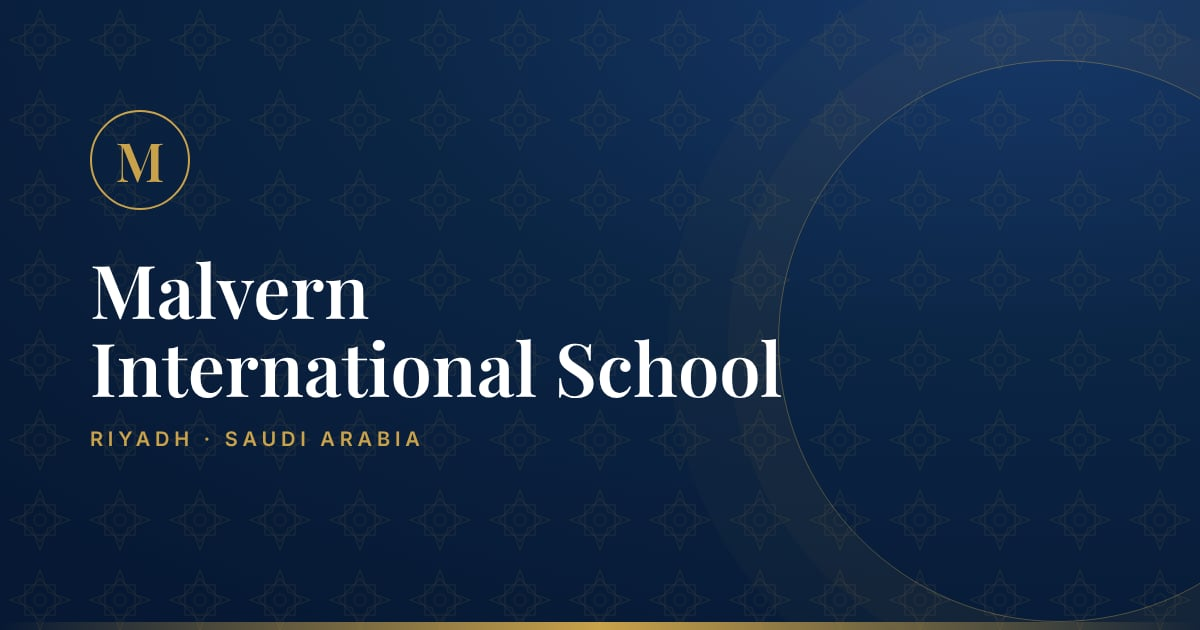
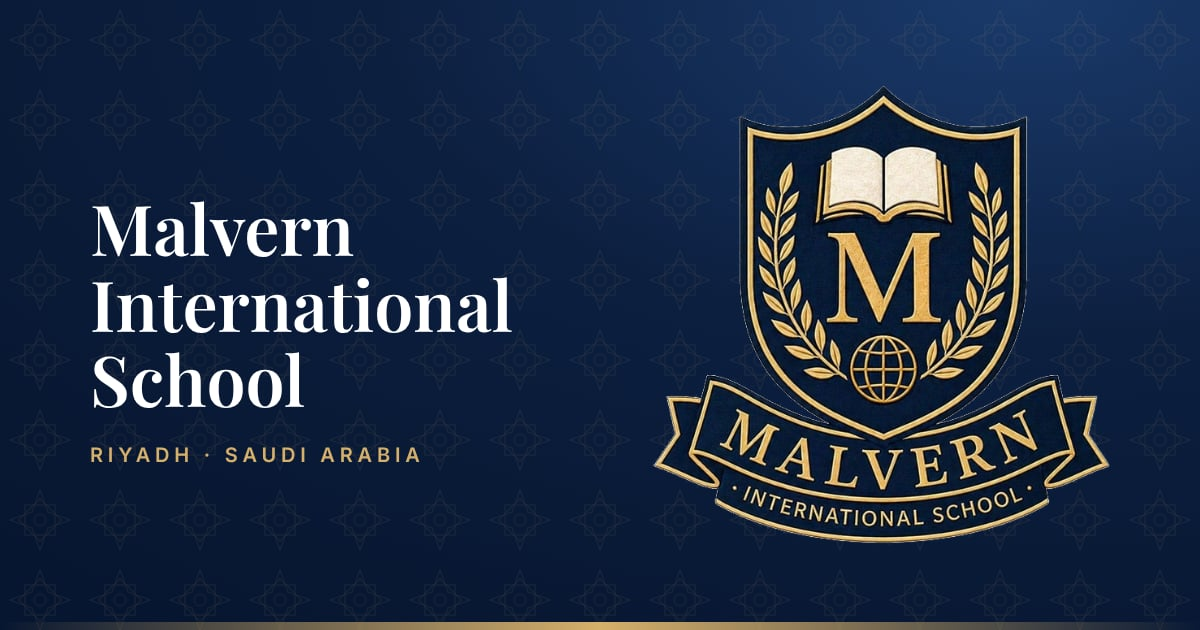
Add school crest, matching colours, contact details, address, vision, mission and beliefs
Claude-Session: https://claude.ai/code/session_0121dwiqmaTXYgpTpQHRfV6E

Changed region(s): [[0.0617, 0.1206, 0.925, 0.8746], [0.37, 0.9651, 0.6167, 1.0], [0.0925, 0.1508, 0.1233, 0.181]]

diff --git a/src/styles/global.css b/src/styles/global.css
@@ -64,7 +64,7 @@ a:hover { color: var(--c-accent-text); }
 .btn { display: inline-flex; align-items: center; justify-content: center; gap: .5rem; min-block-size: 48px; padding: .8rem 1.6rem; border-radius: 999px; font: 600 1rem/1.2 var(--font-body); text-decoration: none; border: 1.5px solid transparent; cursor: pointer; transition: background .2s, color .2s, border-color .2s, transform .2s; white-space: nowrap; }
 .btn:hover { transform: translateY(-1px); }
 .btn--gold { background: var(--c-accent); color: var(--c-primary-deep); }
-.btn--gold:hover { background: #d8b45e; color: var(--c-primary-deep); }
+.btn--gold:hover { background: var(--c-accent-hover); color: var(--c-primary-deep); }
 .btn--navy { background: var(--c-primary); color: #fff; }
 .btn--navy:hover { background: var(--c-primary-deep); color: #fff; }
 .btn--outline { border-color: currentColor; color: var(--c-primary); background: transparent; }

diff --git a/CONTENT-NEEDED.md b/CONTENT-NEEDED.md
@@ -8,23 +8,24 @@ Tick each item when done. Send the content in any form (Word, email, WhatsApp) a
 ---
 
 ## Every page (contact details — `content/settings.yaml`)
-- [ ] Phone number
-- [ ] Admissions email address
-- [ ] WhatsApp number (for the green floating button and the enquiry form)
-- [ ] Full school address
-- [ ] Working hours (e.g. Sunday–Thursday, 7:00 am – 3:00 pm)
-- [ ] Google Maps embed link and share link
-- [ ] Social media links (Instagram, X, LinkedIn, YouTube) — optional
-- [ ] **Logo** — upload to the `brand` folder as `logo.svg` or `logo.png` (and `logo-white.png` for dark backgrounds, if you have one)
-- [ ] Official brand colours (from the logo guidelines) — I will update `theme.json`
+- [x] Phone number
+- [x] Admissions email address
+- [x] WhatsApp number (for the green floating button and the enquiry form)
+- [x] Full school address
+- [x] Working hours (e.g. Sunday–Thursday, 7:00 am – 3:00 pm)
+- [ ] Check the map pin on the Contact page is on the school (map uses the National Address; send the Google Maps "Share" link if the pin is off)
+- [x] YouTube channel linked
+- [ ] Other social media links (Instagram, X, LinkedIn) — optional
+- [x] Logo (crest) added; colours matched to the crest
+- [ ] Optional: the logo as a high-resolution or vector file (SVG/PDF) from the designer, for extra sharpness
 
 ## Home (`content/en/home.yaml`)
 - [ ] Approve the hero headline (draft): "An international education, rooted in Saudi identity."
 - [ ] Approve the hero sub-text (draft) and the "Begin your Malvern journey" closing text (draft)
-- [ ] "Why Malvern" — one or two sentences on what makes Malvern different
+- [x] "Why Malvern" — one or two sentences on what makes Malvern different
 - [ ] "International learning" card — curriculum framework and international approach
 - [ ] "Committed to quality" card — **approved Cognia wording** (the school is in the accreditation process; must NOT say "accredited")
-- [ ] School film — YouTube link
+- [ ] School film — the YouTube link of the video to feature (channel: youtube.com/@MalvernSch)
 - [ ] Hero video — short silent clip (10–20 seconds) uploaded to `brand` as `hero-video.mp4`; or a still photo as `brand/hero.jpg`
 - [ ] Virtual tour — YouTube link or 360° tour link (`content/settings.yaml` → `virtualTourEmbedUrl`)
 - [ ] Parent Voice — 3 short testimonials **with each parent's written consent**, and a description such as "Parent of a Grade 3 student" (no names of children)
@@ -33,9 +34,9 @@ Tick each item when done. Send the content in any form (Word, email, WhatsApp) a
 ## About (`content/en/about.yaml`)
 - [ ] Principal's welcome message (150–250 words)
 - [ ] Principal's name (and photo, optional)
-- [ ] Vision statement
-- [ ] Mission statement
-- [ ] Values (titles + one line each — 4 suggested, any number works)
+- [x] Vision statement
+- [x] Mission statement
+- [x] Beliefs (6 shown on About; the 7th is used in "Why Malvern" on Home)
 - [ ] Leadership team: names, roles, photos (optional), and one introductory sentence
 - [ ] Cognia — approved accreditation-status wording
 - [ ] About-page video — YouTube link (optional, e.g. Principal's message)
